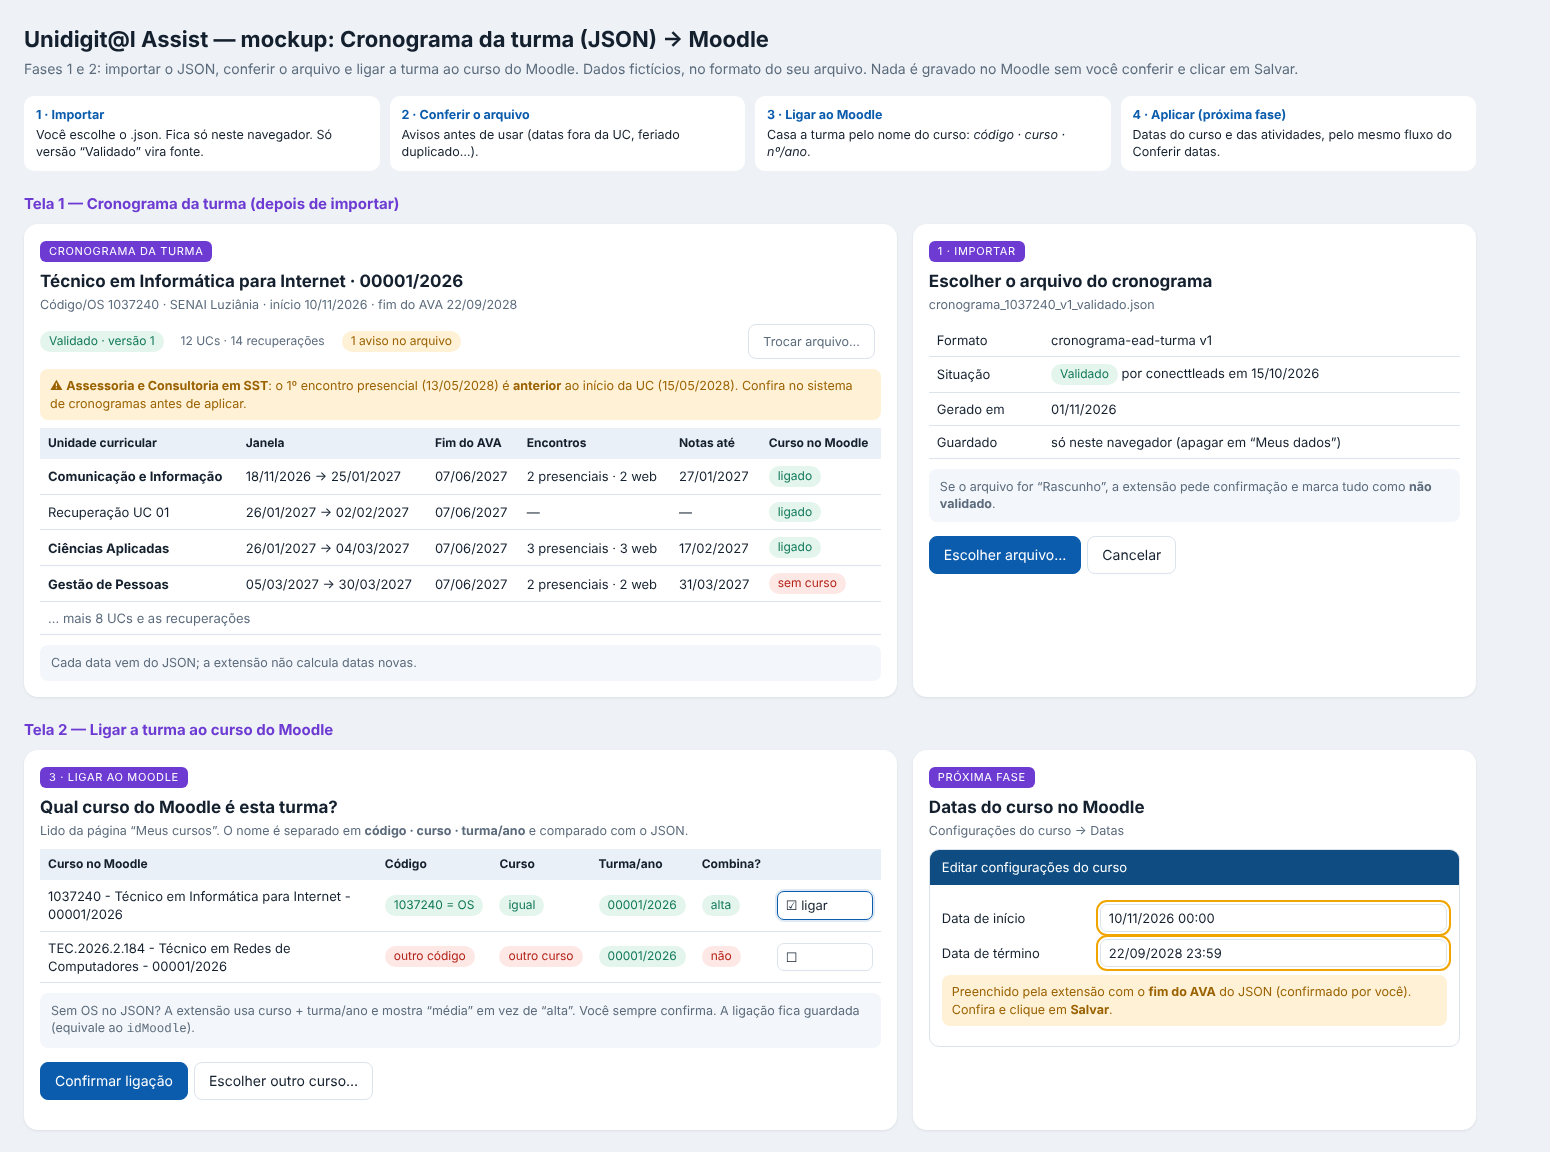
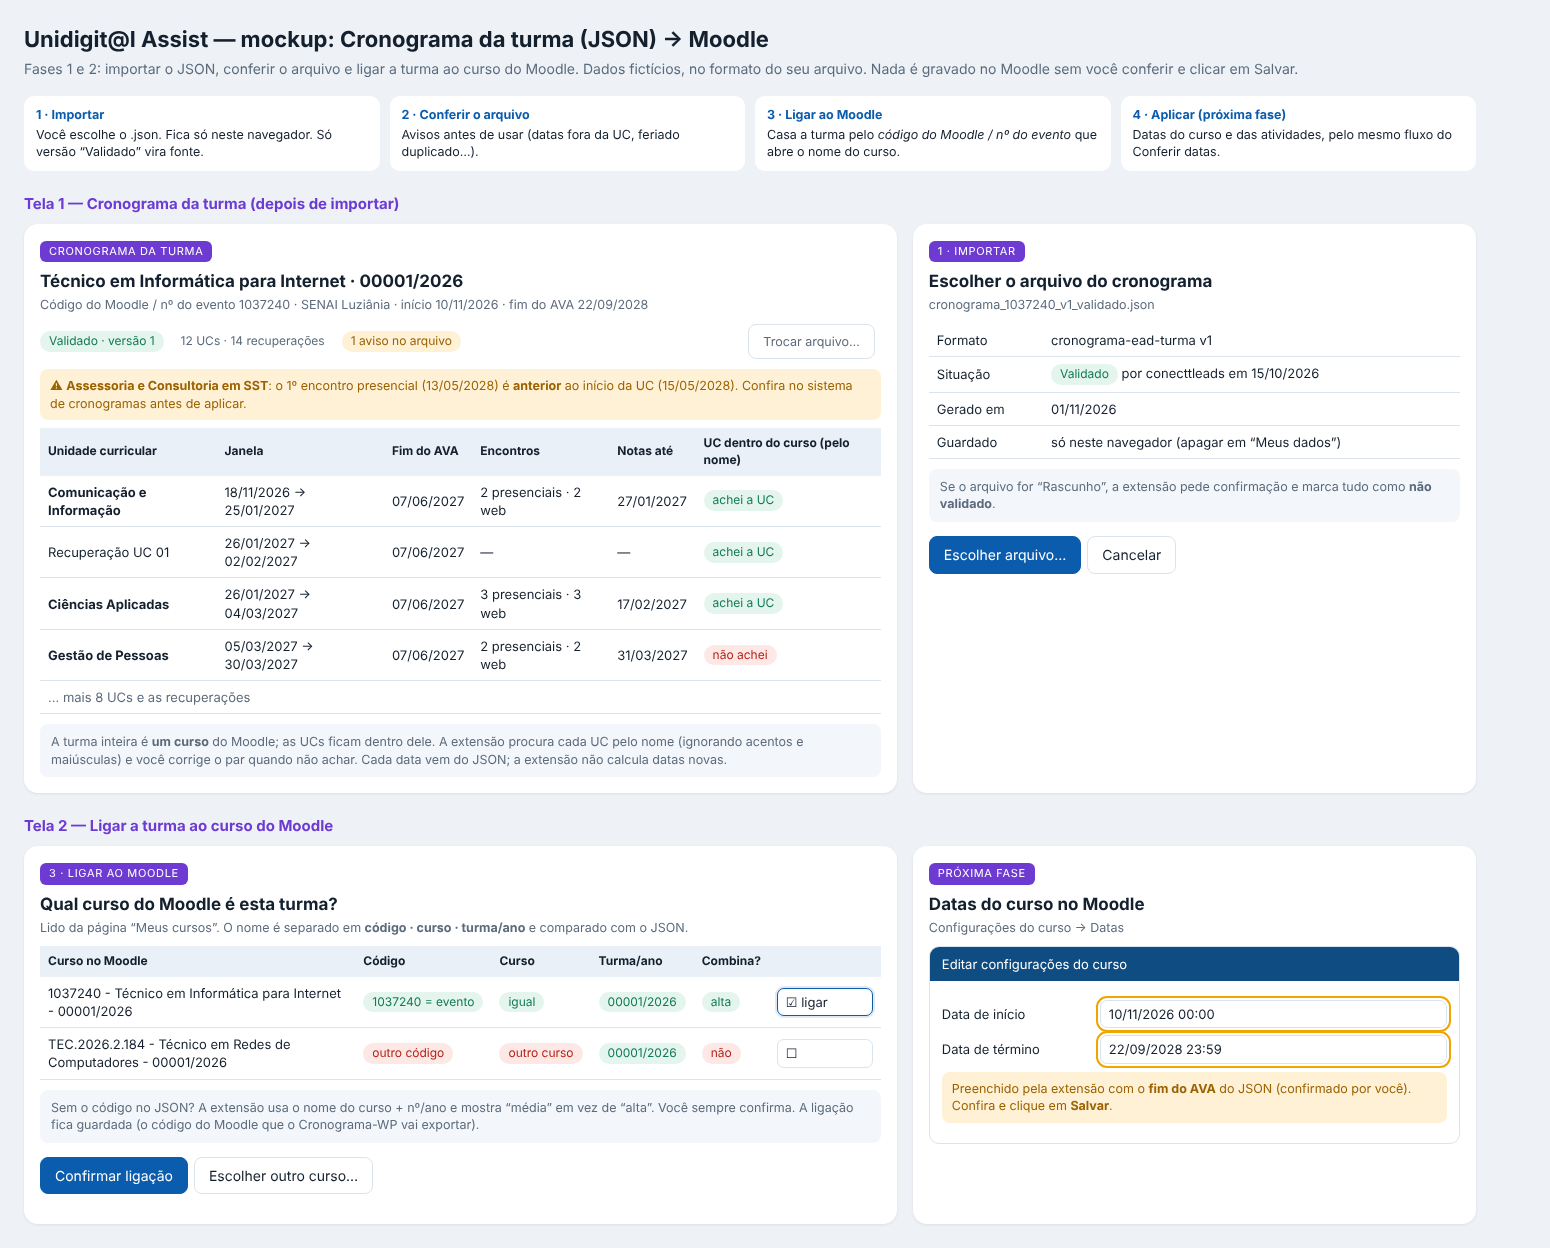
docs: mockup do cronograma JSON com UCs dentro do curso
Claude-Session: https://claude.ai/code/session_018SDmnztaCV1uHBsRTSaU9u

Changed region(s): [[0.0, 0.0, 0.929, 0.9688], [0.5884, 0.6562, 0.96, 0.9062]]

diff --git a/docs/mockups/cronograma-json.html b/docs/mockups/cronograma-json.html
@@ -27,23 +27,23 @@ table{width:100%;border-collapse:collapse;font-size:13px}th{background:#eaf0f7;t
 <div class="steps">
 <div class="st"><b>1 · Importar</b>Você escolhe o .json. Fica só neste navegador. Só versão “Validado” vira fonte.</div>
 <div class="st"><b>2 · Conferir o arquivo</b>Avisos antes de usar (datas fora da UC, feriado duplicado…).</div>
-<div class="st"><b>3 · Ligar ao Moodle</b>Casa a turma pelo nome do curso: <i>código · curso · nº/ano</i>.</div>
+<div class="st"><b>3 · Ligar ao Moodle</b>Casa a turma pelo <i>código do Moodle / nº do evento</i> que abre o nome do curso.</div>
 <div class="st"><b>4 · Aplicar (próxima fase)</b>Datas do curso e das atividades, pelo mesmo fluxo do Conferir datas.</div>
 </div>
 
 <h2>Tela 1 — Cronograma da turma (depois de importar)</h2>
 <div class="grid">
 <div class="card"><span class="tagc">CRONOGRAMA DA TURMA</span><h3>Técnico em Informática para Internet · 00001/2026</h3>
-<p class="sub">Código/OS 1037240 · SENAI Luziânia · início 10/11/2026 · fim do AVA 22/09/2028</p>
+<p class="sub">Código do Moodle / nº do evento 1037240 · SENAI Luziânia · início 10/11/2026 · fim do AVA 22/09/2028</p>
 <div class="bar"><span class="pill ok">Validado · versão 1</span><span class="pill">12 UCs · 14 recuperações</span><span class="pill dif">1 aviso no arquivo</span><span class="btn" style="margin-left:auto">Trocar arquivo…</span></div>
 <div class="ban">⚠ <b>Assessoria e Consultoria em SST</b>: o 1º encontro presencial (13/05/2028) é <b>anterior</b> ao início da UC (15/05/2028). Confira no sistema de cronogramas antes de aplicar.</div>
-<table><thead><tr><th>Unidade curricular</th><th>Janela</th><th>Fim do AVA</th><th>Encontros</th><th>Notas até</th><th>Curso no Moodle</th></tr></thead><tbody>
-<tr><td><b>Comunicação e Informação</b></td><td>18/11/2026 → 25/01/2027</td><td>07/06/2027</td><td>2 presenciais · 2 web</td><td>27/01/2027</td><td><span class="pill ok">ligado</span></td></tr>
-<tr><td>Recuperação UC 01</td><td>26/01/2027 → 02/02/2027</td><td>07/06/2027</td><td>—</td><td>—</td><td><span class="pill ok">ligado</span></td></tr>
-<tr><td><b>Ciências Aplicadas</b></td><td>26/01/2027 → 04/03/2027</td><td>07/06/2027</td><td>3 presenciais · 3 web</td><td>17/02/2027</td><td><span class="pill ok">ligado</span></td></tr>
-<tr><td><b>Gestão de Pessoas</b></td><td>05/03/2027 → 30/03/2027</td><td>07/06/2027</td><td>2 presenciais · 2 web</td><td>31/03/2027</td><td><span class="pill sem">sem curso</span></td></tr>
+<table><thead><tr><th>Unidade curricular</th><th>Janela</th><th>Fim do AVA</th><th>Encontros</th><th>Notas até</th><th>UC dentro do curso (pelo nome)</th></tr></thead><tbody>
+<tr><td><b>Comunicação e Informação</b></td><td>18/11/2026 → 25/01/2027</td><td>07/06/2027</td><td>2 presenciais · 2 web</td><td>27/01/2027</td><td><span class="pill ok">achei a UC</span></td></tr>
+<tr><td>Recuperação UC 01</td><td>26/01/2027 → 02/02/2027</td><td>07/06/2027</td><td>—</td><td>—</td><td><span class="pill ok">achei a UC</span></td></tr>
+<tr><td><b>Ciências Aplicadas</b></td><td>26/01/2027 → 04/03/2027</td><td>07/06/2027</td><td>3 presenciais · 3 web</td><td>17/02/2027</td><td><span class="pill ok">achei a UC</span></td></tr>
+<tr><td><b>Gestão de Pessoas</b></td><td>05/03/2027 → 30/03/2027</td><td>07/06/2027</td><td>2 presenciais · 2 web</td><td>31/03/2027</td><td><span class="pill sem">não achei</span></td></tr>
 <tr><td colspan="6" style="color:var(--m)">… mais 8 UCs e as recuperações</td></tr></tbody></table>
-<div class="note">Cada data vem do JSON; a extensão não calcula datas novas.</div>
+<div class="note">A turma inteira é <b>um curso</b> do Moodle; as UCs ficam dentro dele. A extensão procura cada UC pelo nome (ignorando acentos e maiúsculas) e você corrige o par quando não achar. Cada data vem do JSON; a extensão não calcula datas novas.</div>
 </div>
 <div class="card"><span class="tagc">1 · IMPORTAR</span><h3>Escolher o arquivo do cronograma</h3>
 <p class="sub">cronograma_1037240_v1_validado.json</p>
@@ -57,9 +57,9 @@ table{width:100%;border-collapse:collapse;font-size:13px}th{background:#eaf0f7;t
 <div class="card"><span class="tagc">3 · LIGAR AO MOODLE</span><h3>Qual curso do Moodle é esta turma?</h3>
 <p class="sub">Lido da página “Meus cursos”. O nome é separado em <b>código · curso · turma/ano</b> e comparado com o JSON.</p>
 <table><thead><tr><th>Curso no Moodle</th><th>Código</th><th>Curso</th><th>Turma/ano</th><th>Combina?</th><th></th></tr></thead><tbody>
-<tr><td>1037240 - Técnico em Informática para Internet - 00001/2026</td><td><span class="pill ok">1037240 = OS</span></td><td><span class="pill ok">igual</span></td><td><span class="pill ok">00001/2026</span></td><td><span class="pill ok">alta</span></td><td><span class="inp ed">☑ ligar</span></td></tr>
+<tr><td>1037240 - Técnico em Informática para Internet - 00001/2026</td><td><span class="pill ok">1037240 = evento</span></td><td><span class="pill ok">igual</span></td><td><span class="pill ok">00001/2026</span></td><td><span class="pill ok">alta</span></td><td><span class="inp ed">☑ ligar</span></td></tr>
 <tr><td>TEC.2026.2.184 - Técnico em Redes de Computadores - 00001/2026</td><td><span class="pill sem">outro código</span></td><td><span class="pill sem">outro curso</span></td><td><span class="pill ok">00001/2026</span></td><td><span class="pill sem">não</span></td><td><span class="inp">☐</span></td></tr></tbody></table>
-<div class="note">Sem OS no JSON? A extensão usa curso + turma/ano e mostra “média” em vez de “alta”. Você sempre confirma. A ligação fica guardada (equivale ao <code>idMoodle</code>).</div>
+<div class="note">Sem o código no JSON? A extensão usa o nome do curso + nº/ano e mostra “média” em vez de “alta”. Você sempre confirma. A ligação fica guardada (o código do Moodle que o Cronograma-WP vai exportar).</div>
 <p><span class="btn pri">Confirmar ligação</span><span class="btn">Escolher outro curso…</span></p></div>
 <div class="card"><span class="tagc">PRÓXIMA FASE</span><h3>Datas do curso no Moodle</h3>
 <p class="sub">Configurações do curso → Datas</p>
